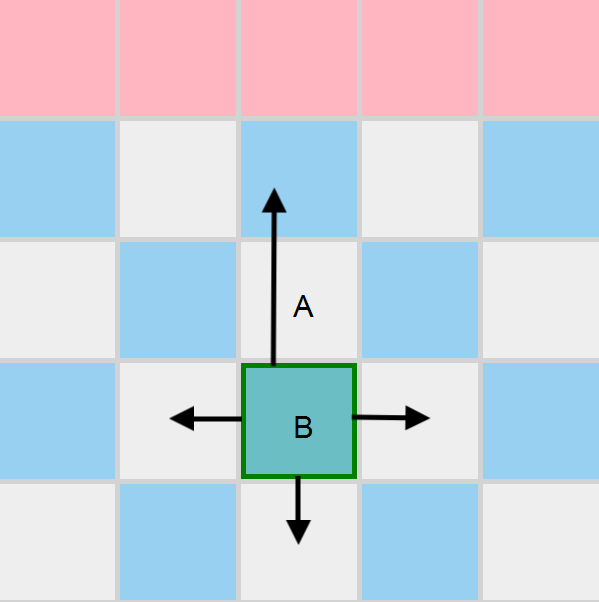
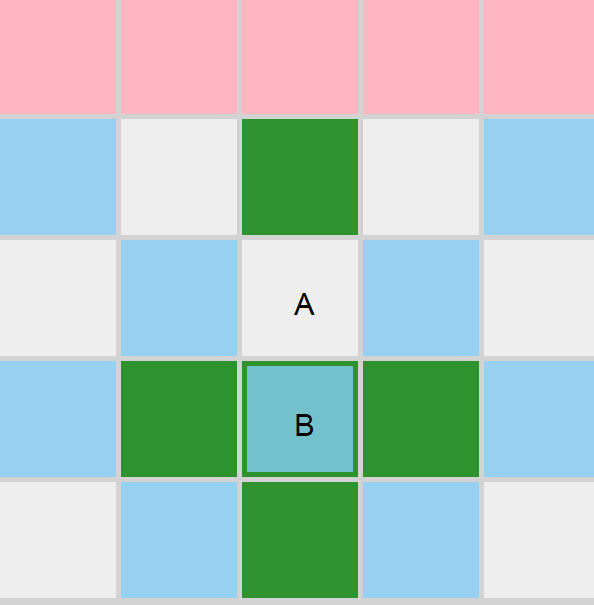
update images of possible moves

Changed region(s): [[0.0, 0.0, 1.0, 1.0], [0.4848, 0.6877, 0.5455, 0.7475]]

diff --git a/Quoridor/Thesis/en/chapters/chap01.tex b/Quoridor/Thesis/en/chapters/chap01.tex
@@ -142,21 +142,18 @@ Figure \ref{fig:WallBlocked} invalid.
 \end{itemize}
 
 \begin{figure}[h]
-    \begin{subfigure}{0.2\textwidth}
+    \begin{subfigure}{0.3\textwidth}
       \includegraphics[width=\textwidth]{../img/GameBoard/move01.png}
     \end{subfigure}
     \hfill
-    \begin{subfigure}{0.2\textwidth}
+    \begin{subfigure}{0.3\textwidth}
         \includegraphics[width=\textwidth]{../img/GameBoard/move02.png}
     \end{subfigure}
     \hfill
-    \begin{subfigure}{0.2\textwidth}
+    \begin{subfigure}{0.3\textwidth}
         \includegraphics[width=\textwidth]{../img/GameBoard/move03.png}
     \end{subfigure}
     \hfill
-    \begin{subfigure}{0.2\textwidth}
-      \includegraphics[width=\textwidth]{../img/GameBoard/move04.png}
-    \end{subfigure}
     \caption{Examples of possible moves for player B in the game state}
     \label{fig:PossibleMoves}
 \end{figure}
